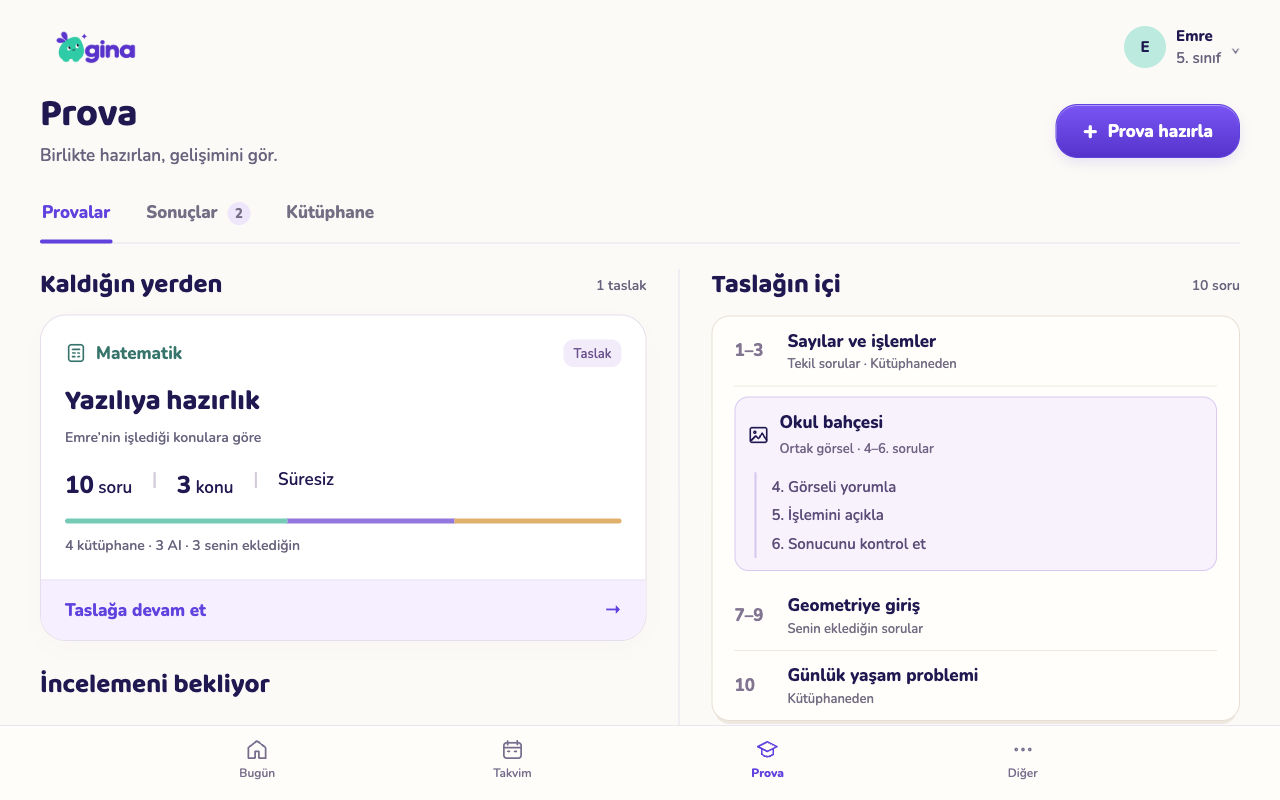
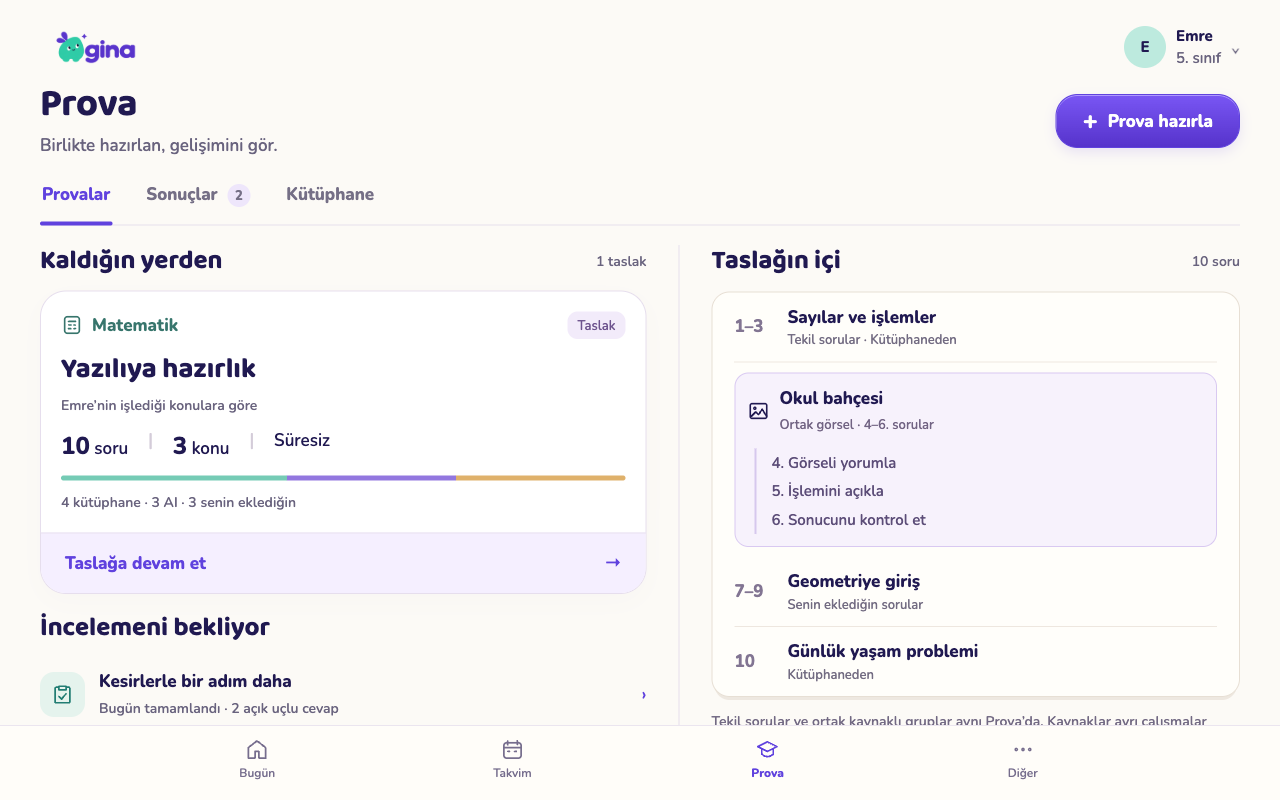
design: keep pending reviews visible in tablet proposal

diff --git a/docs/design/screens/prova-simplification/proposal-v1.html b/docs/design/screens/prova-simplification/proposal-v1.html
@@ -1,4 +1,4 @@
 <!doctype html><html lang="tr"><meta charset="utf-8"><meta name="viewport" content="width=device-width,initial-scale=1"><title>GINA — Prova ana ekranı önerisi (örnek veriler)</title><style>
 @font-face{font-family:Nunito;src:url('/node_modules/@expo-google-fonts/nunito/600SemiBold/Nunito_600SemiBold.ttf')}@font-face{font-family:Nunito;src:url('/node_modules/@expo-google-fonts/nunito/800ExtraBold/Nunito_800ExtraBold.ttf');font-weight:800}@font-face{font-family:Baloo;src:url('/node_modules/@expo-google-fonts/baloo-2/700Bold/Baloo2_700Bold.ttf');font-weight:700}
 *{box-sizing:border-box}body{margin:0;background:#fcfaf6;color:#201951;font:17px/1.5 Nunito}button{font:inherit;color:inherit;cursor:default}#screen{max-width:1280px;margin:auto;min-height:100vh;padding:24px 40px 105px}.top{display:flex;align-items:center;justify-content:space-between;gap:20px}.logo{width:110px;height:46px;object-fit:contain}.profile{display:flex;align-items:center;gap:10px;font-size:15px}.avatar{width:42px;height:42px;border-radius:50%;background:#bdeade;display:grid;place-items:center;font-weight:800}.dim{color:#69637e}.intro{display:flex;justify-content:space-between;align-items:center;margin:24px 0 26px}h1,h2,h3,p{margin:0}h1{font:700 38px/1.1 Baloo;margin-bottom:7px}h2{font:700 26px/1.2 Baloo}h3{font-weight:800;font-size:20px}.primary{border:1px solid #6042de;background:linear-gradient(#7956f4,#5633cb);color:white;box-shadow:inset 0 1px 0 #ae98ff,0 5px 12px #6042de20;border-radius:22px;min-height:54px;padding:10px 26px;font-weight:800;display:flex;align-items:center;justify-content:center;gap:10px}.tabs{display:flex;gap:32px;border-bottom:1px solid #e6dfed;margin-bottom:26px}.tabs button{border:0;background:none;padding:0 2px 12px;font-weight:800;min-height:48px;color:#756f86;position:relative}.tabs .active{color:#6042de}.active:after{content:'';position:absolute;bottom:-1px;left:0;right:0;height:4px;background:#6042de;border-radius:5px}.count{display:inline-grid;place-items:center;background:#eee6fb;width:23px;height:23px;border-radius:50%;font-size:13px;margin-left:5px}.grid{display:grid;grid-template-columns:1.08fr 1fr;gap:32px}.section{display:flex;align-items:center;justify-content:space-between;margin-bottom:14px}.small{font-size:14px}.draft{background:#fff;border:1px solid #e6deed;border-radius:26px;overflow:hidden;box-shadow:0 8px 22px #20195104}.draftbody{padding:24px}.drafthead{display:flex;justify-content:space-between;align-items:center;margin-bottom:16px}.subject{display:flex;align-items:center;gap:9px;font-weight:800;color:#37756c}.pill{font-size:13px;color:#6d538e;background:#f2ebfa;padding:4px 10px;border-radius:10px}.draft h3{font:700 28px/1.3 Baloo;margin-bottom:7px}.facts{display:flex;gap:20px;margin:19px 0 16px}.facts strong{font-size:24px}.divider{color:#d4ccd9}.mix{display:flex;height:5px;border-radius:8px;overflow:hidden;margin-bottom:11px}.mix i:nth-child(1){background:#75cbb5;width:40%}.mix i:nth-child(2){background:#9277df;width:30%}.mix i:nth-child(3){background:#dfb16b;width:30%}.draftfoot{border:0;border-top:1px solid #e8e1ef;background:#f5efff;width:100%;text-align:left;padding:17px 24px;font-weight:800;color:#6042de;display:flex;justify-content:space-between;min-height:56px}.pending{margin-top:28px}.result{display:flex;gap:14px;align-items:center;padding:17px 0;border-bottom:1px solid #e8e2ed}.result-icon{width:45px;height:45px;border-radius:14px;background:#e5f3ed;display:grid;place-items:center;color:#227d73;flex-shrink:0}.result h3{font-size:17px}.arrow{margin-left:auto;color:#6042de}.aside{border-left:1px solid #e6dfed;padding-left:32px}.asidehead{display:flex;justify-content:space-between;align-items:center;margin-bottom:15px}.sheet{background:#fffefa;border:1px solid #e7dfd4;border-radius:18px;padding:0 22px;box-shadow:0 6px 0 -3px #eee8e0}.q{display:flex;align-items:center;gap:15px;padding:12px 0;border-bottom:1px solid #eee7df}.q:last-child{border:0}.qnum{font-weight:800;color:#827592;width:38px;white-space:nowrap;flex-shrink:0}.qmain{flex:1}.q small{display:block;color:#736c82;font-size:13px}.group{border:1px solid #d9c9f1;background:#f7f2fc;border-radius:14px;margin:10px 0;padding:12px}.grouphead{display:flex;gap:10px;align-items:center}.group strong{font-weight:800}.group small{font-size:13px;color:#716383}.groupitems{border-left:2px solid #d6c8ed;margin:12px 0 0 7px;padding-left:15px;color:#5c4d78;font-size:15px;line-height:1.9}.footer{position:fixed;bottom:0;left:0;right:0;background:#fffdf9;border-top:1px solid #ebe5ef;padding:12px 30px 18px;display:flex;justify-content:space-evenly;color:#766d8d;font-size:12px}.nav{display:flex;align-items:center;flex-direction:column;gap:3px;min-width:56px}.nav svg{width:23px;height:23px}.selected{color:#6042de;font-weight:800}.hint{margin-top:14px;font-size:14px;color:#726983}.icon{width:22px;height:22px;stroke:currentColor;fill:none;stroke-width:1.8;stroke-linecap:round;stroke-linejoin:round}.bottomspace{display:none}@media(max-width:800px){#screen{padding:14px 22px 100px}.top{gap:10px}.logo{width:99px;height:42px}.profile{font-size:13px;gap:8px}.avatar{width:34px;height:34px}.intro{display:block;margin:20px 0}h1{font-size:34px}.intro p{font-size:15px}.primary{width:100%;margin-top:18px}.tabs{gap:0;justify-content:space-between;margin-bottom:22px;font-size:15px}.grid{display:block}.aside{display:none}.draftbody{padding:18px}.draft h3{font-size:25px}.draftfoot{padding:14px 18px}.facts{margin:13px 0;gap:17px}.drafthead{margin-bottom:11px}.pending{margin-top:23px}.result{padding:12px 0}.result:last-child{display:none}.section h2{font-size:23px}.footer{padding:10px 16px 15px}.hint{display:none}}
-</style><div id="screen"><header class="top"><img class="logo" src="/packages/assets/brand/growing-friend/logo.png" alt="gina"><div class="profile"><span class="avatar">E</span><span><b>Emre</b><br><span class="dim">5. sınıf</span></span><span class="dim">⌄</span></div></header><div class="intro"><div><h1>Prova</h1><p class="dim">Birlikte hazırlan, gelişimini gör.</p></div><button class="primary"><span style="font-size:25px;line-height:1">+</span> Prova hazırla</button></div><nav class="tabs"><button class="active">Provalar</button><button>Sonuçlar <span class="count">2</span></button><button>Kütüphane</button></nav><div class="grid"><main><div class="section"><h2>Kaldığın yerden</h2><span class="small dim">1 taslak</span></div><article class="draft"><div class="draftbody"><div class="drafthead"><span class="subject"><svg class="icon" viewBox="0 0 24 24"><rect x="4" y="3" width="16" height="18" rx="3"/><path d="M8 8h8M8 12h3M14 12h2M8 16h3M14 16h2"/></svg>Matematik</span><span class="pill">Taslak</span></div><h3>Yazılıya hazırlık</h3><p class="dim small">Emre’nin işlediği konulara göre</p><div class="facts"><span><strong>10</strong> soru</span><span class="divider">|</span><span><strong>3</strong> konu</span><span class="divider">|</span><span>Süresiz</span></div><div class="mix"><i></i><i></i><i></i></div><p class="small dim">4 kütüphane · 3 AI · 3 senin eklediğin</p></div><button class="draftfoot">Taslağa devam et <span>→</span></button></article><div class="pending"><div class="section"><h2>İncelemeni bekliyor</h2></div><div class="result"><div class="result-icon"><svg class="icon" viewBox="0 0 24 24"><path d="M8 4H5a1 1 0 0 0-1 1v16h16V5a1 1 0 0 0-1-1h-3M8 3h8v4H8zM8 14l3 3 5-6"/></svg></div><div><h3>Kesirlerle bir adım daha</h3><span class="small dim">Bugün tamamlandı · 2 açık uçlu cevap</span></div><span class="arrow">›</span></div><div class="result"><div class="result-icon"><svg class="icon" viewBox="0 0 24 24"><path d="M4 5h7v16H4zM11 5l9-2v16l-9 2"/></svg></div><div><h3>Okuduğumu anlıyorum</h3><span class="small dim">Dün tamamlandı · 3 açık uçlu cevap</span></div><span class="arrow">›</span></div></div></main><aside class="aside"><div class="asidehead"><h2>Taslağın içi</h2><span class="small dim">10 soru</span></div><div class="sheet"><div class="q"><span class="qnum">1–3</span><div class="qmain"><b>Sayılar ve işlemler</b><small>Tekil sorular · Kütüphaneden</small></div></div><section class="group"><div class="grouphead"><svg class="icon" viewBox="0 0 24 24"><rect x="3" y="4" width="18" height="16" rx="2"/><circle cx="8" cy="9" r="1"/><path d="m4 18 5-5 3 3 4-6 5 8"/></svg><div><strong>Okul bahçesi</strong><br><small>Ortak görsel · 4–6. sorular</small></div></div><div class="groupitems">4. Görseli yorumla<br>5. İşlemini açıkla<br>6. Sonucunu kontrol et</div></section><div class="q"><span class="qnum">7–9</span><div class="qmain"><b>Geometriye giriş</b><small>Senin eklediğin sorular</small></div></div><div class="q"><span class="qnum">10</span><div class="qmain"><b>Günlük yaşam problemi</b><small>Kütüphaneden</small></div></div></div><p class="hint">Tekil sorular ve ortak kaynaklı gruplar aynı Prova’da. Kaynaklar ayrı çalışmalar oluşturmaz.</p></aside></div></div><footer class="footer"><div class="nav"><svg class="icon" viewBox="0 0 24 24"><path d="m3 10 9-7 9 7v11h-7v-7h-4v7H3z"/></svg>Bugün</div><div class="nav"><svg class="icon" viewBox="0 0 24 24"><rect x="3" y="5" width="18" height="16" rx="3"/><path d="M7 3v4M17 3v4M3 10h18M7 14h2M14 14h2"/></svg>Takvim</div><div class="nav selected"><svg class="icon" viewBox="0 0 24 24"><path d="m2 9 10-5 10 5-10 5zM6 11v6q6 5 12 0v-6"/></svg>Prova</div><div class="nav"><svg class="icon" viewBox="0 0 24 24"><circle cx="5" cy="12" r="1"/><circle cx="12" cy="12" r="1"/><circle cx="19" cy="12" r="1"/></svg>Diğer</div></footer></html>
+@media(min-width:801px){.intro{margin:14px 0 18px}.tabs{margin-bottom:20px}.draftbody{padding:20px}.drafthead{margin-bottom:12px}.facts{margin:12px 0}.pending{margin-top:18px}.result{padding:12px 0}}</style><div id="screen"><header class="top"><img class="logo" src="/packages/assets/brand/growing-friend/logo.png" alt="gina"><div class="profile"><span class="avatar">E</span><span><b>Emre</b><br><span class="dim">5. sınıf</span></span><span class="dim">⌄</span></div></header><div class="intro"><div><h1>Prova</h1><p class="dim">Birlikte hazırlan, gelişimini gör.</p></div><button class="primary"><span style="font-size:25px;line-height:1">+</span> Prova hazırla</button></div><nav class="tabs"><button class="active">Provalar</button><button>Sonuçlar <span class="count">2</span></button><button>Kütüphane</button></nav><div class="grid"><main><div class="section"><h2>Kaldığın yerden</h2><span class="small dim">1 taslak</span></div><article class="draft"><div class="draftbody"><div class="drafthead"><span class="subject"><svg class="icon" viewBox="0 0 24 24"><rect x="4" y="3" width="16" height="18" rx="3"/><path d="M8 8h8M8 12h3M14 12h2M8 16h3M14 16h2"/></svg>Matematik</span><span class="pill">Taslak</span></div><h3>Yazılıya hazırlık</h3><p class="dim small">Emre’nin işlediği konulara göre</p><div class="facts"><span><strong>10</strong> soru</span><span class="divider">|</span><span><strong>3</strong> konu</span><span class="divider">|</span><span>Süresiz</span></div><div class="mix"><i></i><i></i><i></i></div><p class="small dim">4 kütüphane · 3 AI · 3 senin eklediğin</p></div><button class="draftfoot">Taslağa devam et <span>→</span></button></article><div class="pending"><div class="section"><h2>İncelemeni bekliyor</h2></div><div class="result"><div class="result-icon"><svg class="icon" viewBox="0 0 24 24"><path d="M8 4H5a1 1 0 0 0-1 1v16h16V5a1 1 0 0 0-1-1h-3M8 3h8v4H8zM8 14l3 3 5-6"/></svg></div><div><h3>Kesirlerle bir adım daha</h3><span class="small dim">Bugün tamamlandı · 2 açık uçlu cevap</span></div><span class="arrow">›</span></div><div class="result"><div class="result-icon"><svg class="icon" viewBox="0 0 24 24"><path d="M4 5h7v16H4zM11 5l9-2v16l-9 2"/></svg></div><div><h3>Okuduğumu anlıyorum</h3><span class="small dim">Dün tamamlandı · 3 açık uçlu cevap</span></div><span class="arrow">›</span></div></div></main><aside class="aside"><div class="asidehead"><h2>Taslağın içi</h2><span class="small dim">10 soru</span></div><div class="sheet"><div class="q"><span class="qnum">1–3</span><div class="qmain"><b>Sayılar ve işlemler</b><small>Tekil sorular · Kütüphaneden</small></div></div><section class="group"><div class="grouphead"><svg class="icon" viewBox="0 0 24 24"><rect x="3" y="4" width="18" height="16" rx="2"/><circle cx="8" cy="9" r="1"/><path d="m4 18 5-5 3 3 4-6 5 8"/></svg><div><strong>Okul bahçesi</strong><br><small>Ortak görsel · 4–6. sorular</small></div></div><div class="groupitems">4. Görseli yorumla<br>5. İşlemini açıkla<br>6. Sonucunu kontrol et</div></section><div class="q"><span class="qnum">7–9</span><div class="qmain"><b>Geometriye giriş</b><small>Senin eklediğin sorular</small></div></div><div class="q"><span class="qnum">10</span><div class="qmain"><b>Günlük yaşam problemi</b><small>Kütüphaneden</small></div></div></div><p class="hint">Tekil sorular ve ortak kaynaklı gruplar aynı Prova’da. Kaynaklar ayrı çalışmalar oluşturmaz.</p></aside></div></div><footer class="footer"><div class="nav"><svg class="icon" viewBox="0 0 24 24"><path d="m3 10 9-7 9 7v11h-7v-7h-4v7H3z"/></svg>Bugün</div><div class="nav"><svg class="icon" viewBox="0 0 24 24"><rect x="3" y="5" width="18" height="16" rx="3"/><path d="M7 3v4M17 3v4M3 10h18M7 14h2M14 14h2"/></svg>Takvim</div><div class="nav selected"><svg class="icon" viewBox="0 0 24 24"><path d="m2 9 10-5 10 5-10 5zM6 11v6q6 5 12 0v-6"/></svg>Prova</div><div class="nav"><svg class="icon" viewBox="0 0 24 24"><circle cx="5" cy="12" r="1"/><circle cx="12" cy="12" r="1"/><circle cx="19" cy="12" r="1"/></svg>Diğer</div></footer></html>
